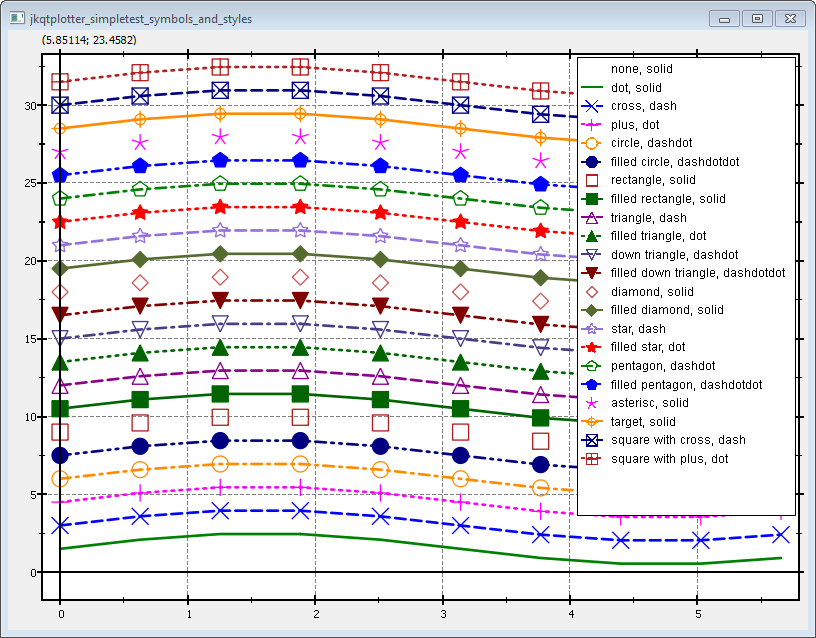
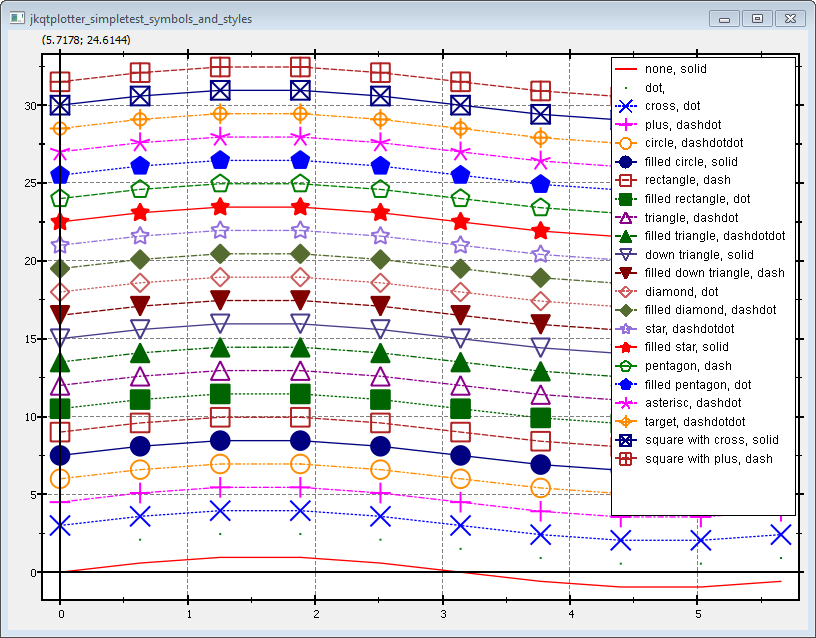
modified example a bit

Changed region(s): [[0.0613, 0.0596, 0.9804, 0.9232]]

diff --git a/test/jkqtplotter_simpletest_symbols_and_styles/jkqtplotter_simpletest_symbols_and_styles.cpp b/test/jkqtplotter_simpletest_symbols_and_styles/jkqtplotter_simpletest_symbols_and_styles.cpp
@@ -25,7 +25,7 @@ int main(int argc, char* argv[])
     // 3. now we make several plots with different symbol styles and line-styles
     //    for that we iterate over every symbol style and at the same time over
     //    pen styles from the vector pens
-    QVector<Qt::PenStyle> pens {Qt::NoPen, Qt::SolidLine, Qt::DashLine, Qt::DotLine, Qt::DashDotLine, Qt::DashDotDotLine };
+    QVector<Qt::PenStyle> pens {Qt::SolidLine, Qt::DashLine, Qt::DotLine, Qt::DashDotLine, Qt::DashDotDotLine };
     int ipen=0;
     for (int symbolID=0; symbolID<=JKQTPmaxSymbolID; symbolID++) {
         // generate some plot data
@@ -43,9 +43,18 @@ int main(int argc, char* argv[])
         // set symbol + pen style and color
         graph->set_symbol(static_cast<JKQTPgraphSymbols>(symbolID));
         graph->set_style(pens[ipen]);
+        QString lname=JKQTP_QPenStyle2String(graph->get_style());
+        graph->set_drawLine(static_cast<JKQTPgraphSymbols>(symbolID)!=JKQTPdot);
+        if (!graph->get_drawLine()) lname="";
+        // set symbol size
+        graph->set_symbolSize(14);
+        // set width of symbol lines
+        graph->set_symbolWidth(1.5);
+        // set width of graph line
+        graph->set_lineWidth(1);
 
         // graph title is made from symbol+penstyle
-        graph->set_title(JKQTPgraphSymbols2NameString(static_cast<JKQTPgraphSymbols>(graph->get_symbol()))+QString(", ")+JKQTP_QPenStyle2String(graph->get_style()));
+        graph->set_title(JKQTPgraphSymbols2NameString(static_cast<JKQTPgraphSymbols>(graph->get_symbol()))+QString(", ")+lname);
 
         // add the graph to the plot, so it is actually displayed
         plot.addGraph(graph);

diff --git a/test/jkqtplotter_simpletest_symbols_and_styles/README.md b/test/jkqtplotter_simpletest_symbols_and_styles/README.md
@@ -5,7 +5,7 @@
 ## Line Graph with Different Symbols and Line Styles
 This project (see `./test/jkqtplotter_simpletest_symbols_and_styles/`) simply creates a JKQtPlotter widget (as a new window) and adds a single line-graph (a sine-wave). Data is initialized from two QVector<double> objects.
 
-The source code of the main application can be found in  [`jkqtplotter_simpletest_symbols_and_styles.cpp`](https://github.com/jkriege2/JKQtPlotter/blob/master/jkqtplotter_simpletest_symbols_and_styles/jkqtplotter_simpletest_symbols_and_styles.cpp). Mainly several graphs are generated in a loop and then different symbol and line styles are applied to the graph (set by `graph->set_symbol()` for the symbol and `graph->set_style()` for the line style). The colors are set automtically from an internal default palette. The main loop looks like this:
+The source code of the main application can be found in  [`jkqtplotter_simpletest_symbols_and_styles.cpp`](https://github.com/jkriege2/JKQtPlotter/blob/master/test/jkqtplotter_simpletest_symbols_and_styles/jkqtplotter_simpletest_symbols_and_styles.cpp). Mainly several graphs are generated in a loop and then different symbol and line styles are applied to the graph (set by `graph->set_symbol()` for the symbol and `graph->set_style()` for the line style). The colors are set automtically from an internal default palette. The main loop looks like this:
 
 ```c++
 	QVector<Qt::PenStyle> pens {Qt::NoPen, Qt::SolidLine, Qt::DashLine, Qt::DotLine, Qt::DashDotLine, Qt::DashDotDotLine };
@@ -26,7 +26,13 @@ The source code of the main application can be found in  [`jkqtplotter_simpletes
         // set symbol + pen style and color
         graph->set_symbol(static_cast<JKQTPgraphSymbols>(symbolID));
         graph->set_style(pens[ipen]);
-
+        // set symbol size
+        graph->set_symbolSize(14);
+        // set width of symbol lines
+        graph->set_symbolWidth(1.5);
+        // set width of graph line
+        graph->set_lineWidth(1);
+		
         // graph title is made from symbol+penstyle
         graph->set_title(JKQTPgraphSymbols2NameString(static_cast<JKQTPgraphSymbols>(graph->get_symbol()))+QString(", ")+JKQTP_QPenStyle2String(graph->get_style()));
 
@@ -38,6 +44,7 @@ The source code of the main application can be found in  [`jkqtplotter_simpletes
     }
 ```
 
+In addition to the symbol type and line style, you can also alter the size of the symbols (`graph->set_symbolSize(14)`), the line-width used to draw them (`graph->set_symbolWidth(1.5)`) and the line width of the graph line (`graph->set_lineWidth(1)`). If you want to switch off the line altogether, use `graph->set_drawLine(false`.
 
 The result looks like this:
 
